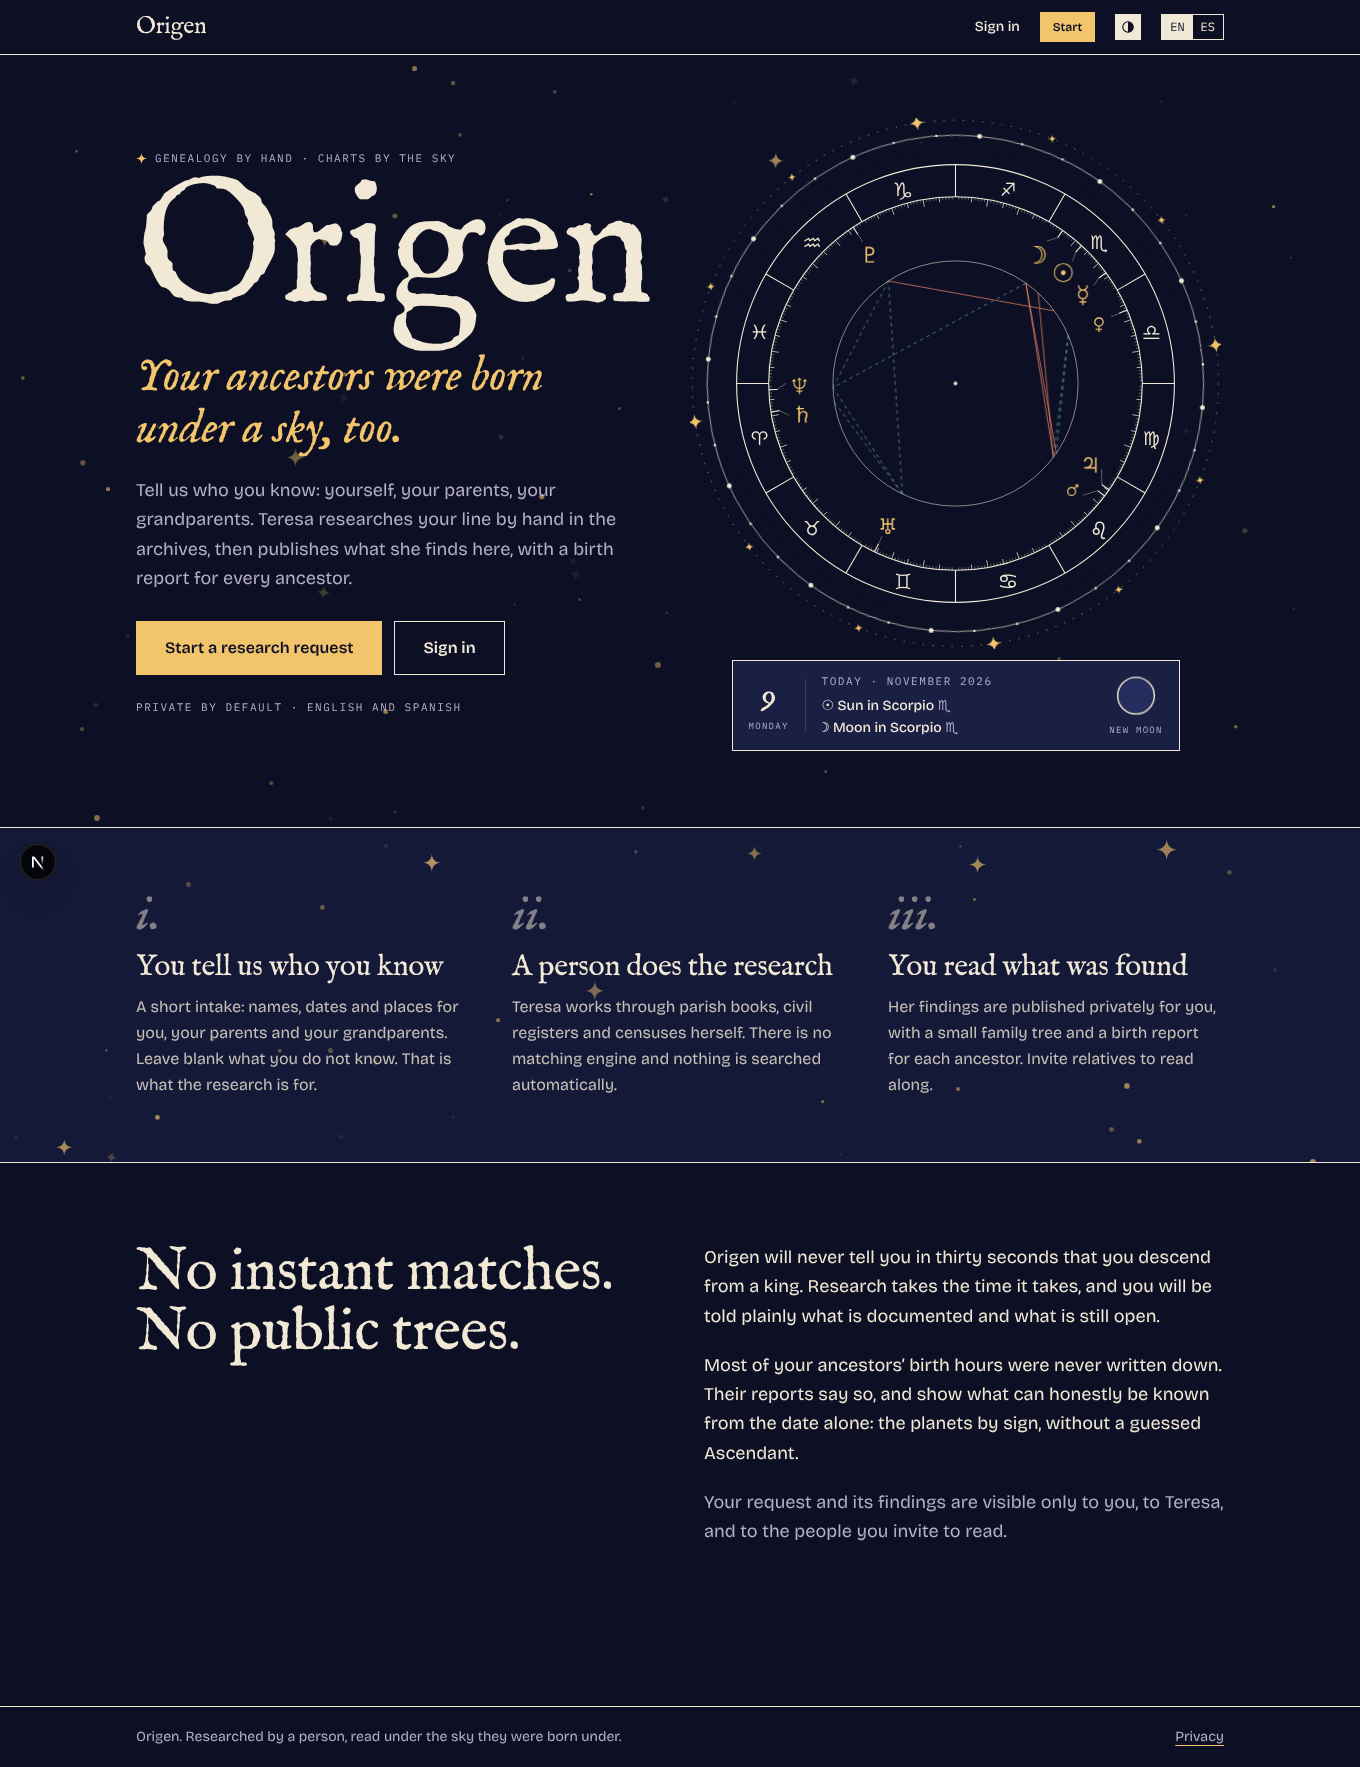
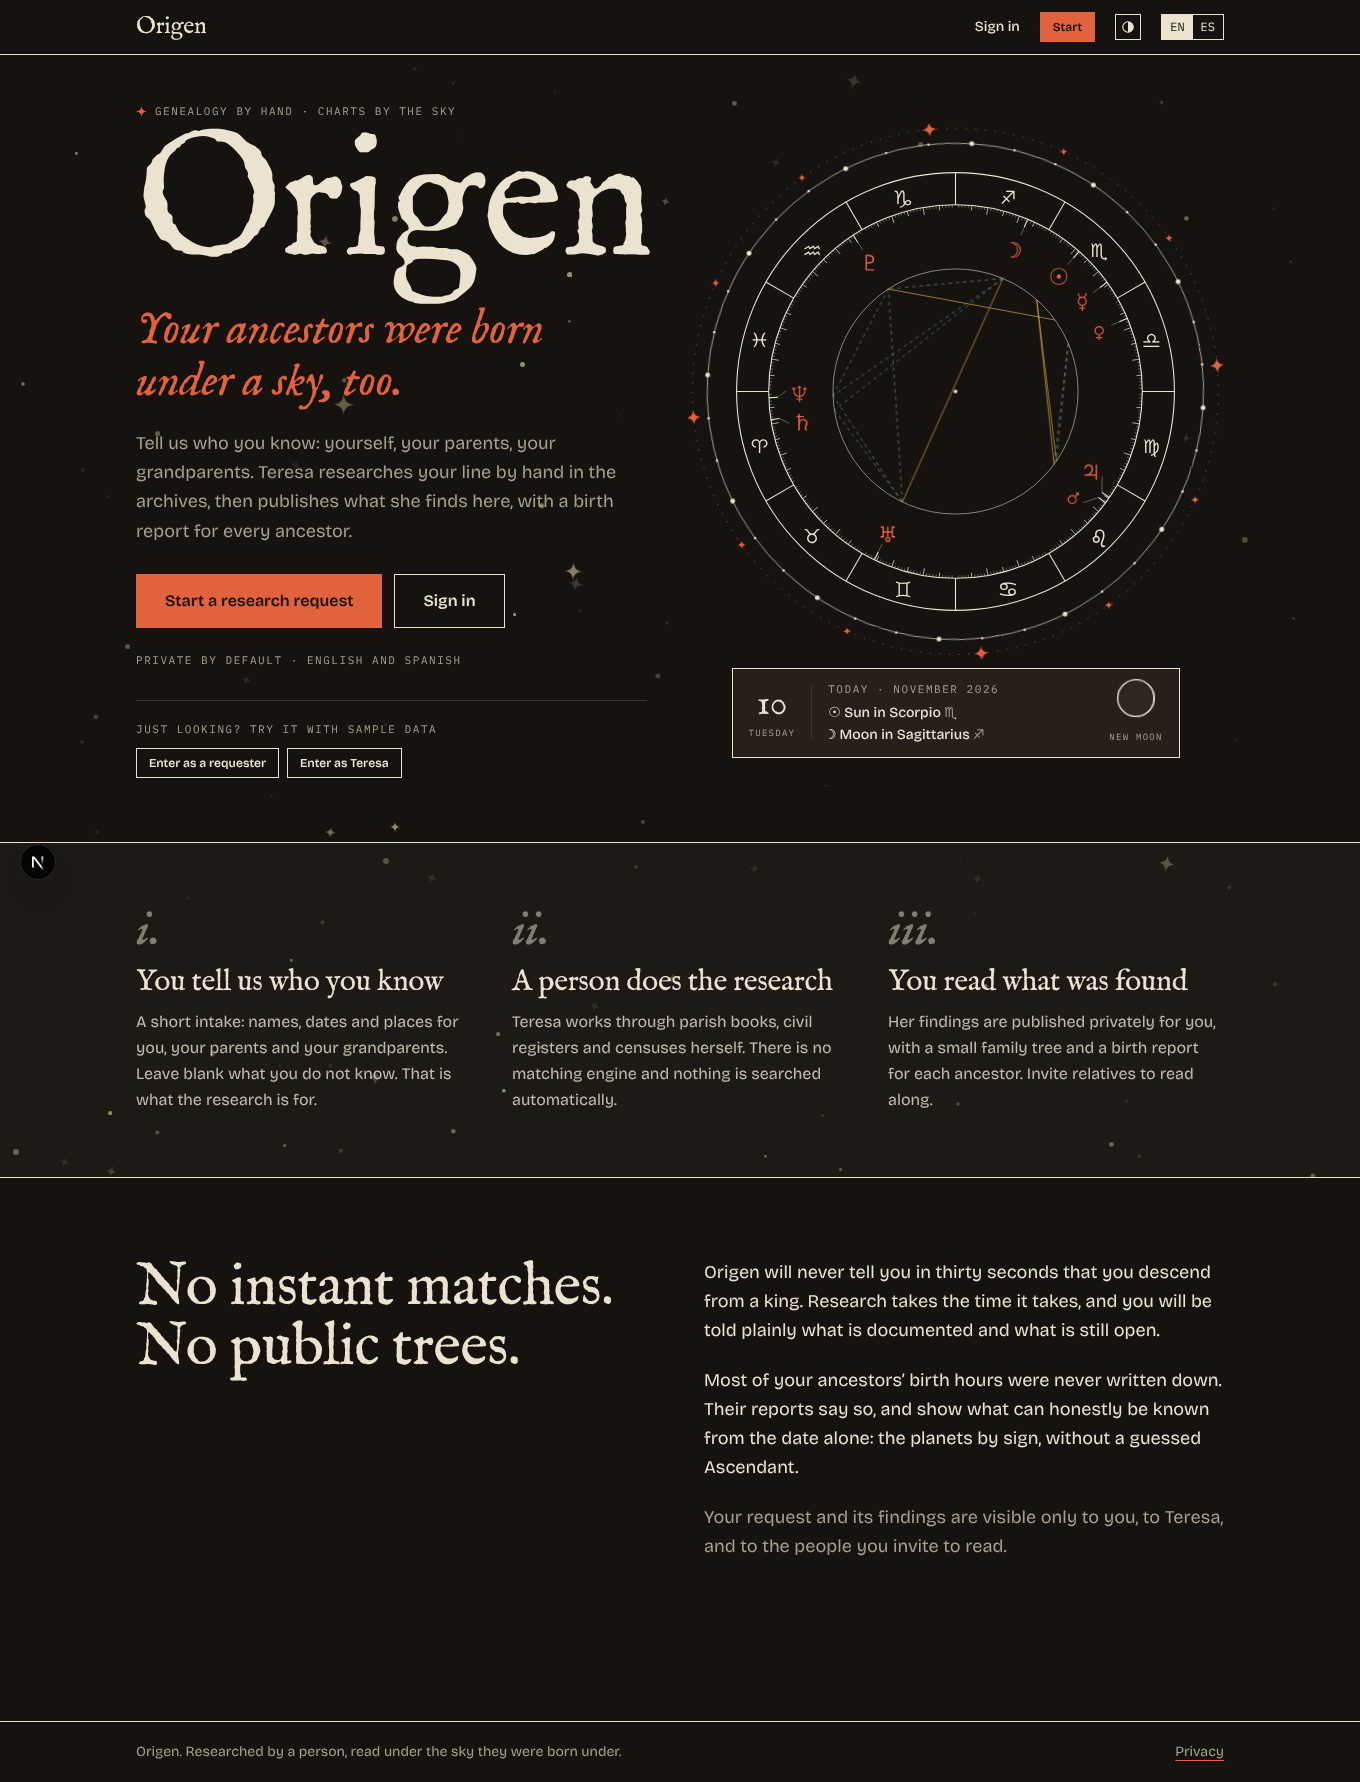
Rework the dark palette and surface the sample login
Dark theme: replace indigo and gold with the colours of an old star
atlas — warm black, bone text, vermilion as the main accent, ochre and
verdigris for chart aspects, bone-coloured stars.

Sample login: the 'Enter as a requester / Enter as Teresa' buttons now
also appear on the home page, and are on by default in development, so
they work straight after npm run dev with no .env.local or seed step.
In production they still require DEMO_LOGIN=true. Development also
falls back to a fixed session secret when AUTH_SECRET is unset.

Claude-Session: https://claude.ai/code/session_013p4R3XgcGWMLkAuGYuzFy2

diff --git a/src/app/globals.css b/src/app/globals.css
@@ -23,6 +23,7 @@
   --band-bg: var(--color-ink);
   --band-fg: var(--color-paper);
   --band-star: var(--color-paper);
+  --color-star: var(--color-ink);
   --moon-shadow: var(--color-ink);
   --moon-lit: var(--color-paper-light);
   color-scheme: light;
@@ -30,44 +31,46 @@
 
 /* Dark theme: chosen explicitly, or by the system when no choice was made. */
 :root[data-theme="dark"] {
-  --color-paper: #0d1024;
-  --color-paper-deep: #151938;
-  --color-paper-light: #1a1f44;
-  --color-ink: #f1e9d6;
-  --color-ink-soft: #b5aec8;
-  --color-ink-faint: #7d7999;
-  --color-line: #f1e9d6;
-  --color-hair: #333a66;
-  /* gold against indigo, with coral and sea-green as secondary notes */
-  --color-accent: #f2c46b;
-  --color-accent-2: #f0876a;
-  --color-accent-3: #79d2c4;
-  --band-bg: #151938;
-  --band-fg: #f1e9d6;
-  --band-star: #f2c46b;
-  --moon-shadow: #262c5c;
-  --moon-lit: #f2c46b;
+  --color-paper: #15120f;
+  --color-paper-deep: #1d1915;
+  --color-paper-light: #262019;
+  --color-ink: #ebe2cf;
+  --color-ink-soft: #a89f8c;
+  --color-ink-faint: #766d5e;
+  --color-line: #ebe2cf;
+  --color-hair: #3d352a;
+  /* the colours of an old star atlas: vermilion ink, ochre and verdigris on warm black */
+  --color-accent: #e2623e;
+  --color-accent-2: #d9a441;
+  --color-accent-3: #7fb5a2;
+  --band-bg: #1d1915;
+  --band-fg: #ebe2cf;
+  --band-star: #d8c79a;
+  --color-star: #d8c79a;
+  --moon-shadow: #2e2720;
+  --moon-lit: #ebe2cf;
   color-scheme: dark;
 }
 @media (prefers-color-scheme: dark) {
   :root:not([data-theme="light"]) {
-    --color-paper: #0d1024;
-    --color-paper-deep: #151938;
-    --color-paper-light: #1a1f44;
-    --color-ink: #f1e9d6;
-    --color-ink-soft: #b5aec8;
-    --color-ink-faint: #7d7999;
-    --color-line: #f1e9d6;
-    --color-hair: #333a66;
-    /* gold against indigo, with coral and sea-green as secondary notes */
-    --color-accent: #f2c46b;
-    --color-accent-2: #f0876a;
-    --color-accent-3: #79d2c4;
-    --band-bg: #151938;
-    --band-fg: #f1e9d6;
-    --band-star: #f2c46b;
-    --moon-shadow: #262c5c;
-    --moon-lit: #f2c46b;
+    --color-paper: #15120f;
+    --color-paper-deep: #1d1915;
+    --color-paper-light: #262019;
+    --color-ink: #ebe2cf;
+    --color-ink-soft: #a89f8c;
+    --color-ink-faint: #766d5e;
+    --color-line: #ebe2cf;
+    --color-hair: #3d352a;
+    /* the colours of an old star atlas: vermilion ink, ochre and verdigris on warm black */
+    --color-accent: #e2623e;
+    --color-accent-2: #d9a441;
+    --color-accent-3: #7fb5a2;
+    --band-bg: #1d1915;
+    --band-fg: #ebe2cf;
+    --band-star: #d8c79a;
+  --color-star: #d8c79a;
+    --moon-shadow: #2e2720;
+    --moon-lit: #ebe2cf;
     color-scheme: dark;
   }
 }
@@ -207,7 +210,7 @@ body {
 /* ---------- landing: stars and the living sky ---------- */
 .star {
   position: absolute;
-  color: var(--star-color, var(--color-accent));
+  color: var(--star-color, var(--color-star));
   opacity: var(--o, 0.4);
   pointer-events: none;
 }

diff --git a/src/app/[locale]/login/page.tsx b/src/app/[locale]/login/page.tsx
@@ -1,7 +1,8 @@
 import { getTranslations, setRequestLocale } from "next-intl/server";
 import { Link, redirect } from "@/i18n/navigation";
 import { AuthForm } from "@/components/AuthForm";
-import { demoLoginAction } from "@/app/actions";
+import { DemoLogin } from "@/components/DemoLogin";
+import { demoEnabled } from "@/lib/demo";
 import { currentUser } from "@/lib/session";
 
 export default async function LoginPage({ params }: { params: Promise<{ locale: string }> }) {
@@ -9,7 +10,7 @@ export default async function LoginPage({ params }: { params: Promise<{ locale: 
   setRequestLocale(locale);
   if (await currentUser()) redirect({ href: "/dashboard", locale });
   const t = await getTranslations("auth");
-  const demo = process.env.DEMO_LOGIN === "true";
+  const demo = demoEnabled();
   return (
     <div className="wrap grid max-w-4xl gap-10 py-14 md:grid-cols-2">
       <div>
@@ -27,17 +28,8 @@ export default async function LoginPage({ params }: { params: Promise<{ locale: 
           <p className="eyebrow mb-2">{t("demoEyebrow")}</p>
           <h2 className="display text-2xl">{t("demoTitle")}</h2>
           <p className="mt-2 text-sm text-ink-soft">{t("demoBody")}</p>
-          <div className="mt-5 grid gap-3">
-            {(["user", "admin"] as const).map((role) => (
-              <form key={role} action={demoLoginAction}>
-                <input type="hidden" name="role" value={role} />
-                <input type="hidden" name="locale" value={locale} />
-                <button className={`${role === "user" ? "btn" : "btn-ghost"} w-full flex-col !items-start !gap-0 text-left`}>
-                  <span>{t(`demo_${role}`)}</span>
-                  <span className="font-mono text-[0.6875rem] font-normal opacity-70">{t(`demo_${role}_hint`)}</span>
-                </button>
-              </form>
-            ))}
+          <div className="mt-5">
+            <DemoLogin locale={locale} />
           </div>
         </aside>
       )}

diff --git a/src/components/DemoLogin.tsx b/src/components/DemoLogin.tsx
@@ -1,0 +1,25 @@
+import { getTranslations } from "next-intl/server";
+import { demoLoginAction } from "@/app/actions";
+
+/** The two sample sign-in buttons: a requester with a published request, and the admin. */
+export async function DemoLogin({ locale, compact = false }: { locale: string; compact?: boolean }) {
+  const t = await getTranslations("auth");
+  return (
+    <div className={compact ? "flex flex-wrap gap-2" : "grid gap-3"}>
+      {(["user", "admin"] as const).map((role) => (
+        <form key={role} action={demoLoginAction}>
+          <input type="hidden" name="role" value={role} />
+          <input type="hidden" name="locale" value={locale} />
+          {compact ? (
+            <button className="btn-ghost btn-sm bg-paper">{t(`demo_${role}`)}</button>
+          ) : (
+            <button className={`${role === "user" ? "btn" : "btn-ghost"} w-full flex-col !items-start !gap-0 text-left`}>
+              <span>{t(`demo_${role}`)}</span>
+              <span className="font-mono text-[0.6875rem] font-normal opacity-70">{t(`demo_${role}_hint`)}</span>
+            </button>
+          )}
+        </form>
+      ))}
+    </div>
+  );
+}

diff --git a/src/app/[locale]/page.tsx b/src/app/[locale]/page.tsx
@@ -1,5 +1,7 @@
 import { getTranslations, setRequestLocale } from "next-intl/server";
 import { Link } from "@/i18n/navigation";
+import { DemoLogin } from "@/components/DemoLogin";
+import { demoEnabled } from "@/lib/demo";
 import { MoonPhase, phaseIndex } from "@/components/MoonPhase";
 import { Starfield } from "@/components/Starfield";
 import { Wheel } from "@/components/Wheel";
@@ -71,6 +73,12 @@ export default async function Landing({ params }: { params: Promise<{ locale: st
             <p className="eyebrow rise-in mt-6" style={{ "--delay": "0.7s" } as React.CSSProperties}>
               {t("private")}
             </p>
+            {!user && demoEnabled() && (
+              <div className="rise-in mt-8 border-t border-hair pt-5" style={{ "--delay": "0.85s" } as React.CSSProperties}>
+                <p className="eyebrow mb-2.5">{t("demoPrompt")}</p>
+                <DemoLogin locale={locale} compact />
+              </div>
+            )}
           </div>
 
           <figure className="mx-auto w-full max-w-[40rem]">

diff --git a/src/app/actions.ts b/src/app/actions.ts
@@ -11,6 +11,7 @@ import { REQUEST_STATUSES, type RequestStatus } from "@/db/schema";
 import { redirect } from "@/i18n/navigation";
 import { routing } from "@/i18n/routing";
 import { requestForUser } from "@/lib/access";
+import { demoEnabled } from "@/lib/demo";
 import { INTAKE_PATHS, PATH_RE } from "@/lib/people";
 import { cleanPersonInput } from "@/lib/person-input";
 import { DEMO_PASSWORD, DEMO_USER_EMAIL, ensureDemoData } from "@/lib/seed";
@@ -56,7 +57,7 @@ export async function registerAction(_prev: FormState, form: FormData): Promise<
 }
 
 export async function demoLoginAction(form: FormData) {
-  if (process.env.DEMO_LOGIN !== "true") throw new Error("Demo login is disabled");
+  if (!demoEnabled()) throw new Error("Demo login is disabled");
   ensureDemoData();
   const email = form.get("role") === "admin" ? adminEmail() : DEMO_USER_EMAIL;
   const locale = safeLocale(form.get("locale"));

diff --git a/src/auth.ts b/src/auth.ts
@@ -6,6 +6,8 @@ import { db, schema } from "@/db";
 
 export const { handlers, auth, signIn, signOut } = NextAuth({
   trustHost: true,
+  // A fixed secret keeps local development zero-config; production must set AUTH_SECRET.
+  secret: process.env.AUTH_SECRET ?? (process.env.NODE_ENV !== "production" ? "origen-local-development-secret" : undefined),
   session: { strategy: "jwt" },
   providers: [
     Credentials({

diff --git a/src/lib/demo.ts b/src/lib/demo.ts
@@ -1,0 +1,11 @@
+/**
+ * One-click demo sign-in. On by default while developing so the app can be
+ * explored straight after `npm run dev`; in production it must be switched on
+ * explicitly with DEMO_LOGIN=true.
+ */
+export function demoEnabled() {
+  const flag = process.env.DEMO_LOGIN;
+  if (flag === "true") return true;
+  if (flag === "false") return false;
+  return process.env.NODE_ENV !== "production";
+}

diff --git a/README.md b/README.md
@@ -26,9 +26,10 @@ automatically on first run (`data/origen.db`).
 
 ### Demo logins
 
-With `DEMO_LOGIN=true` (the default in `.env.example`) the sign-in page shows two
-one-click buttons: **Enter as a requester** and **Enter as Teresa** (admin).
-They work even without running the seed. The seeded accounts can also be used
+The home page and the sign-in page show two one-click buttons: **Enter as a
+requester** and **Enter as Teresa** (admin). They are always available under
+`npm run dev`, even without an `.env.local` file or running the seed. In
+production they only appear when `DEMO_LOGIN=true`. The seeded accounts can also be used
 with a password:
 
 | Role | Email | Password |
@@ -50,7 +51,7 @@ The sample families are invented.
 | `AUTH_SECRET` | Secret Auth.js uses to sign sessions. Generate with `npx auth secret`. |
 | `ADMIN_EMAIL` | The account with this email is the admin. Default `teresa@origen.local`. |
 | `DATABASE_URL` | Path of the SQLite file. Default `./data/origen.db`. |
-| `DEMO_LOGIN` | `true` shows the one-click demo sign-in buttons. |
+| `DEMO_LOGIN` | Demo sign-in buttons. On in development unless `false`; off in production unless `true`. |
 
 ## Scripts
 
@@ -66,7 +67,8 @@ The sample families are invented.
 ## What is in v1
 
 - **Landing** with the live sky as its main visual, EN/ES switch everywhere.
-- **Light and dark themes**: cream and black, or indigo with gold accents. The site
+- **Light and dark themes**: cream and black, or warm black with vermilion,
+  ochre and verdigris accents. The site
   follows the system setting until the visitor uses the switch in the header.
 - **Accounts**: email + password (Auth.js credentials), plus demo sign-in.
 - **Intake wizard**: you → parents → grandparents → review. Save as draft or
